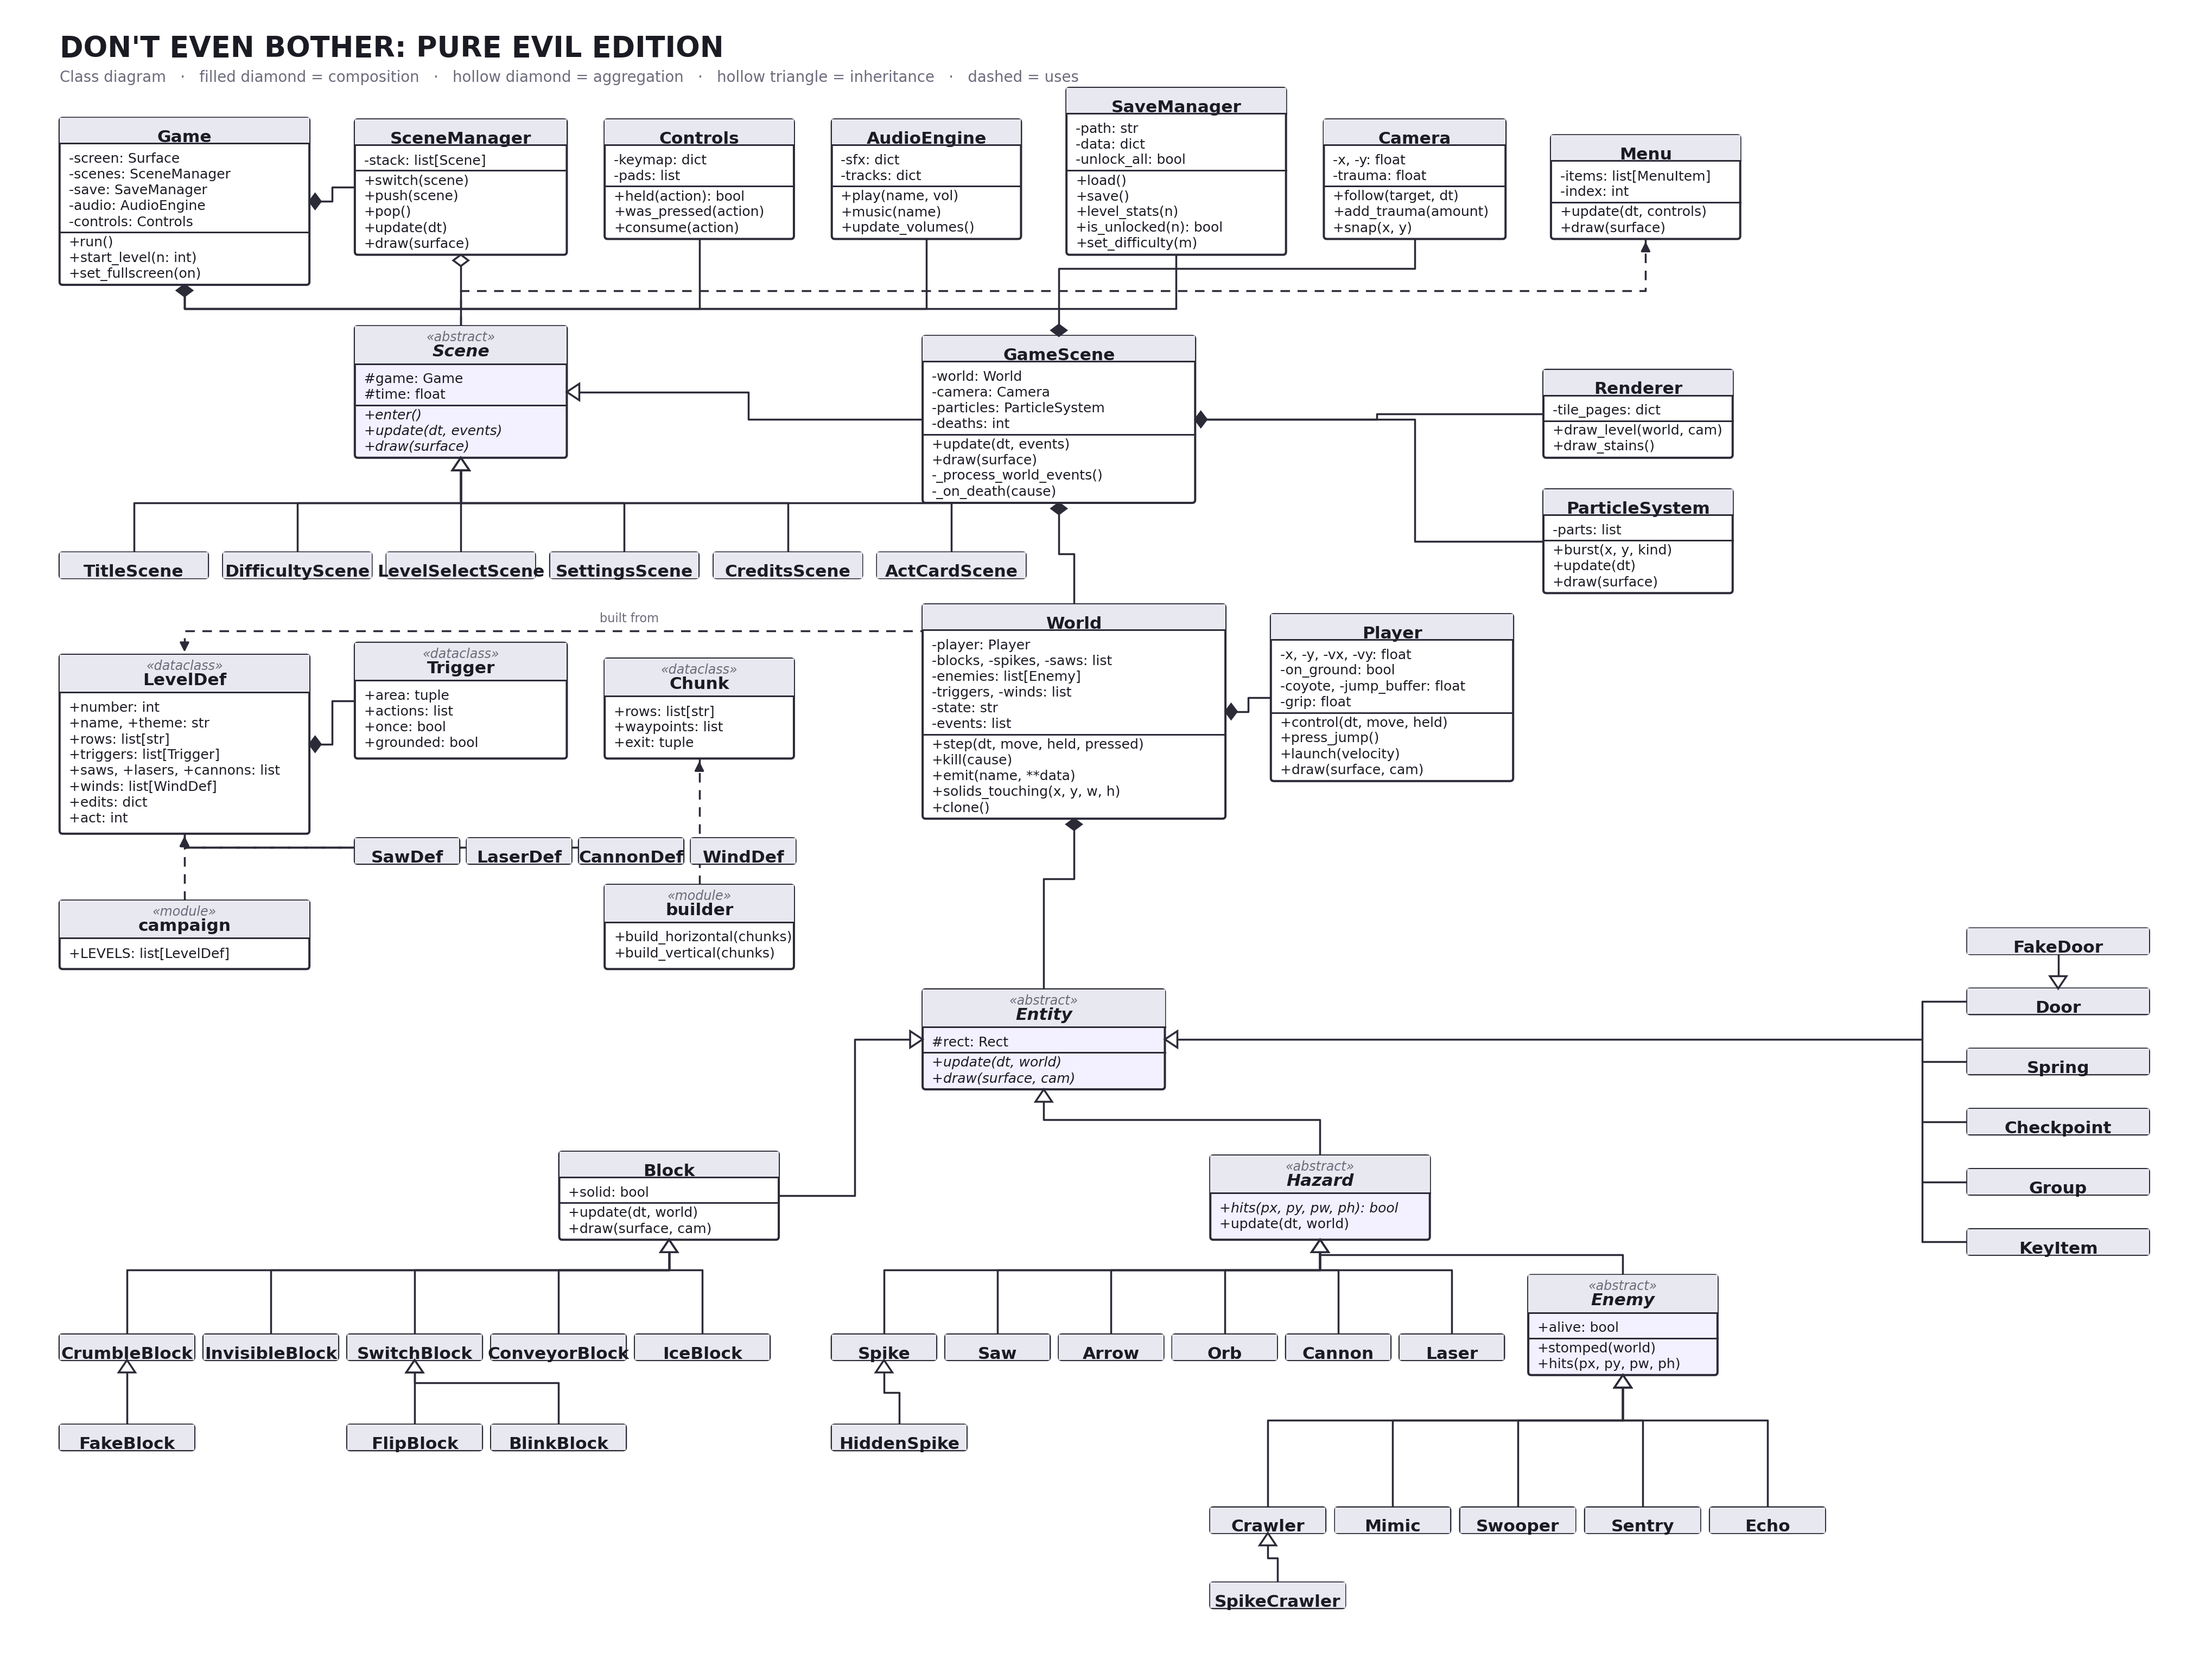
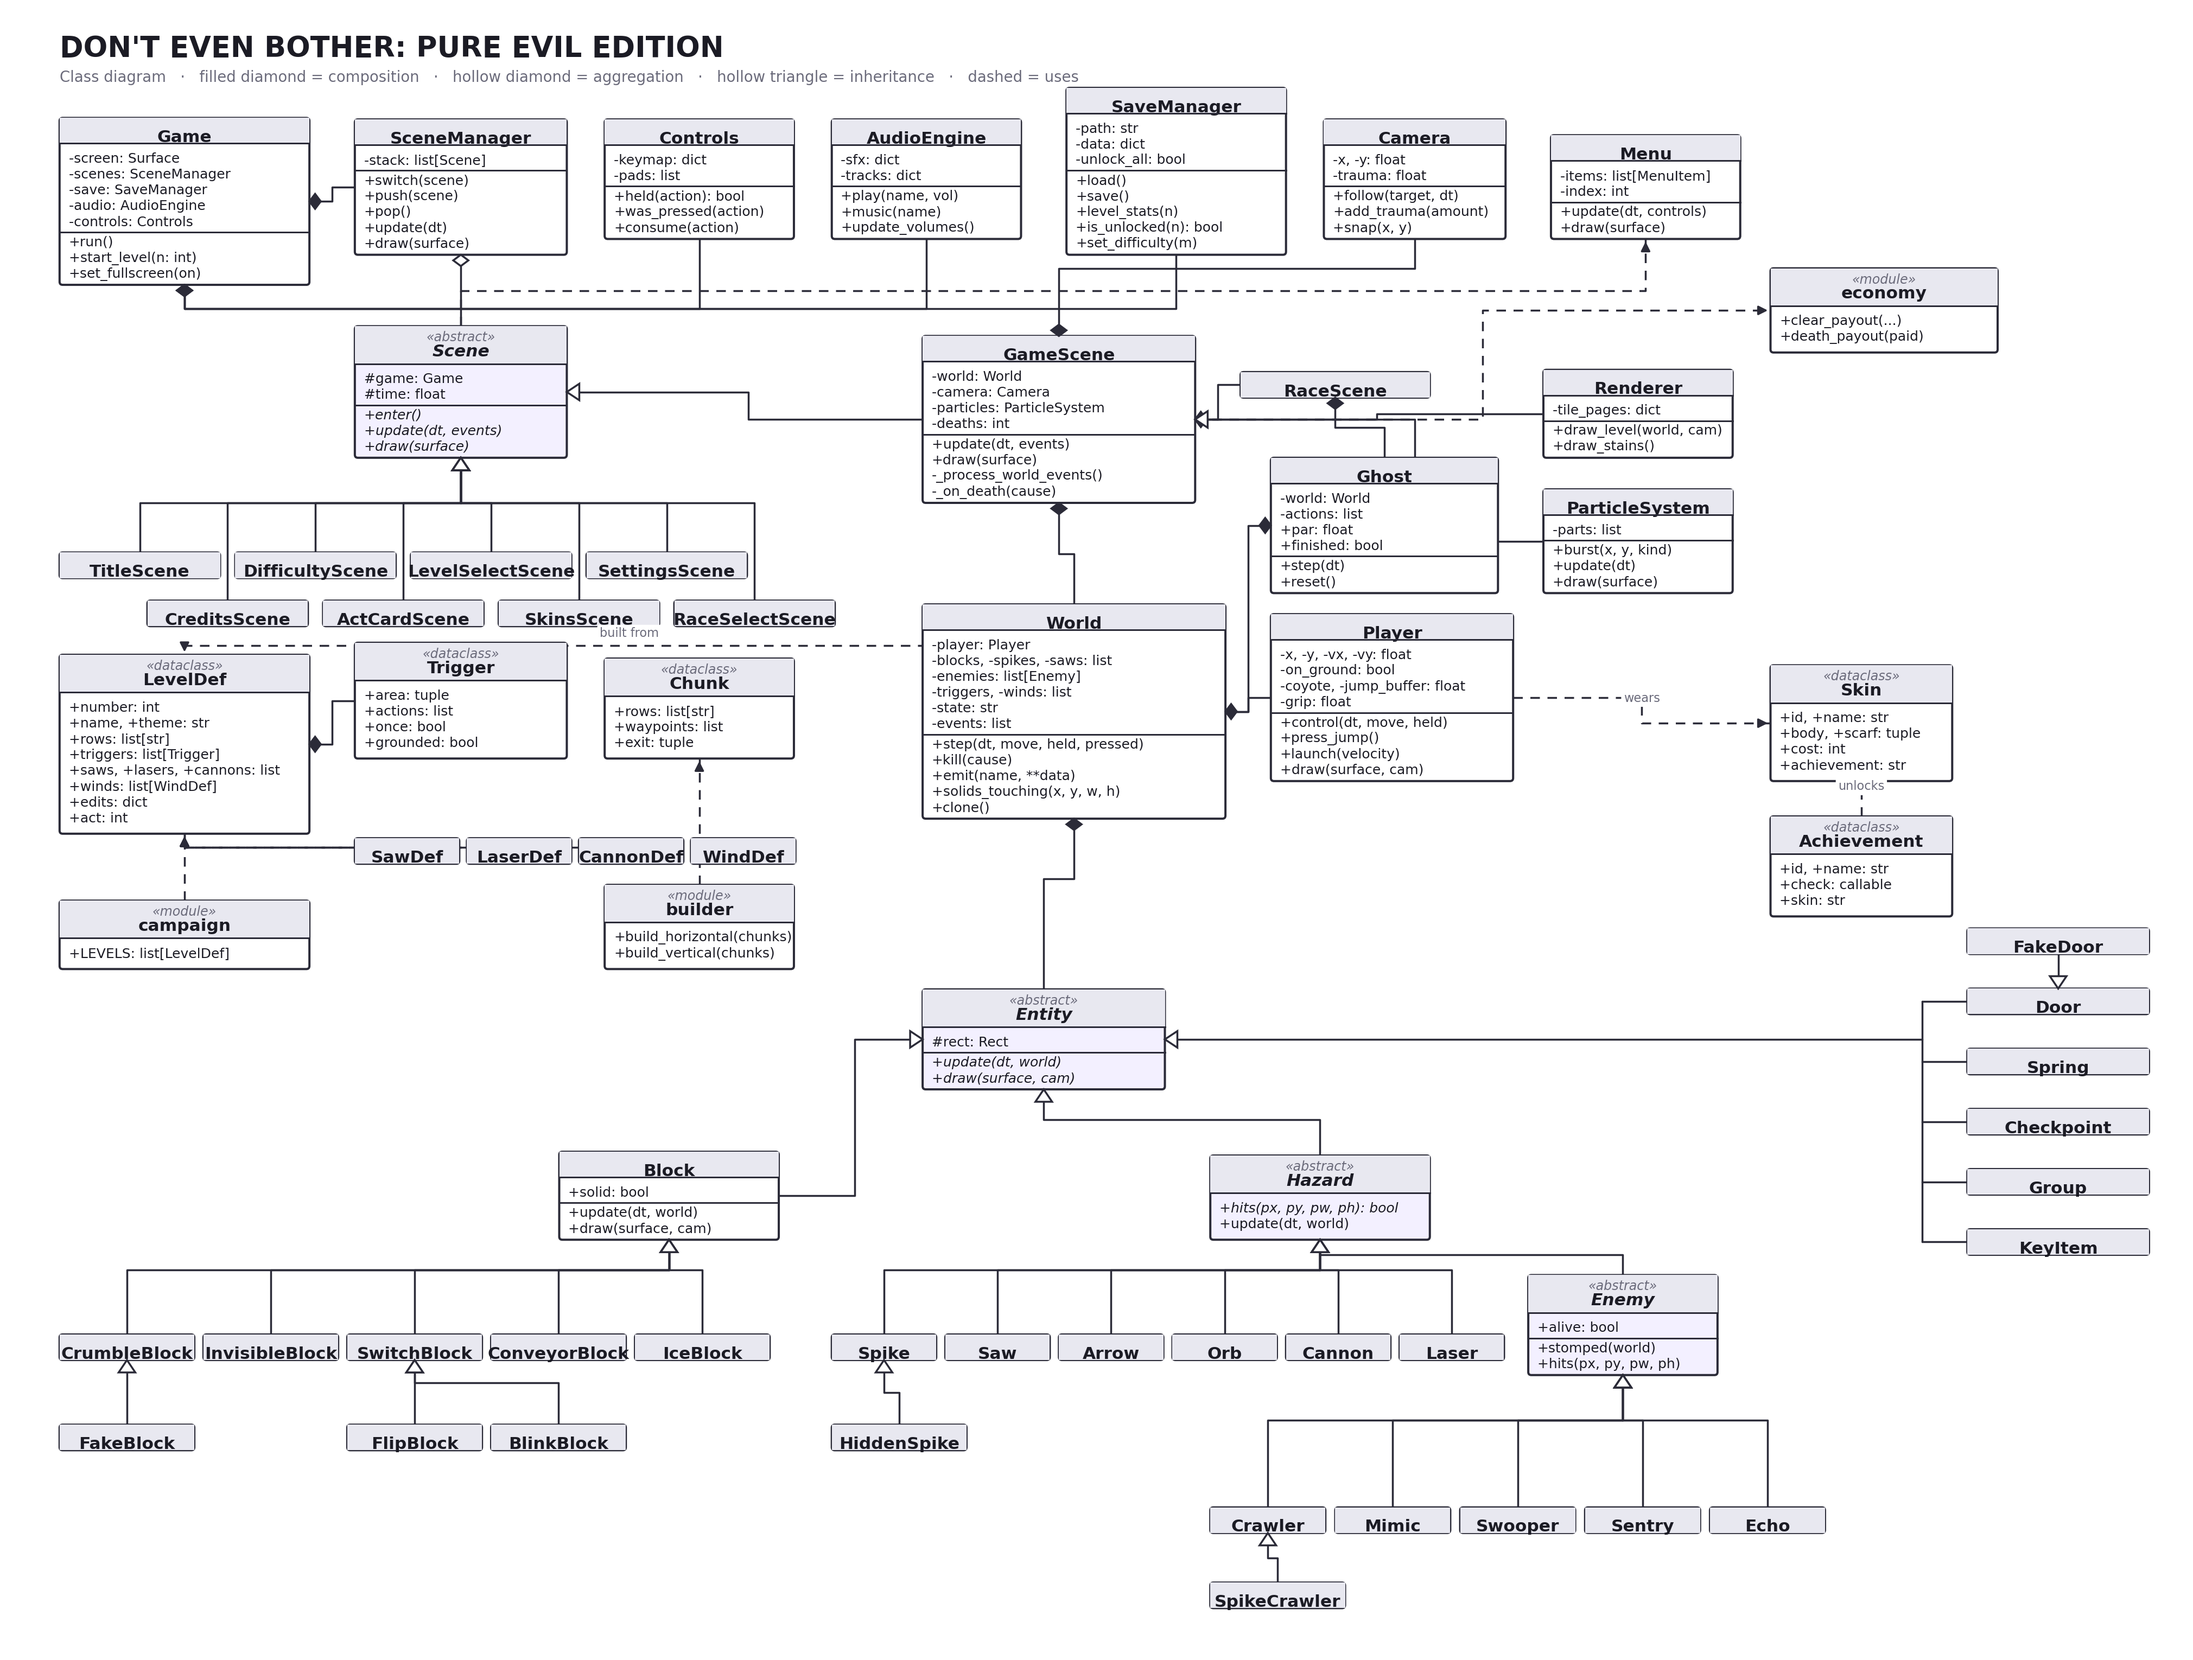
Redraw the class diagram with the cosmetics and racing classes
Adds Skin, Achievement, Ghost, RaceScene, SkinsScene, RaceSelectScene and the
economy module, and shows that a Ghost owns its own World rather than sharing
the player's.

The compact boxes now size their label to fit, and the scene subclasses sit in
two staggered rows so the longer names stop spilling over their borders.

diff --git a/Dont even bother/dev_tools/make_uml.py b/Dont even bother/dev_tools/make_uml.py
@@ -29,8 +29,8 @@ PAD = 10
 BLOCK_KIDS = ["CrumbleBlock", "InvisibleBlock", "SwitchBlock", "ConveyorBlock", "IceBlock"]
 HAZARD_KIDS = ["Spike", "Saw", "Arrow", "Orb", "Cannon", "Laser"]
 ENEMY_KIDS = ["Crawler", "Mimic", "Swooper", "Sentry", "Echo"]
-SCENE_KIDS = ["TitleScene", "DifficultyScene", "LevelSelectScene",
-              "SettingsScene", "CreditsScene", "ActCardScene"]
+SCENE_KIDS = ["TitleScene", "DifficultyScene", "LevelSelectScene", "SettingsScene",
+              "CreditsScene", "ActCardScene", "SkinsScene", "RaceSelectScene"]
 LOOSE_ENTITIES = ["Door", "Spring", "Checkpoint", "Group", "KeyItem"]
 
 boxes = {}
@@ -77,7 +77,9 @@ def draw_box(ax, b):
                 fontsize=9.5, style="italic", color=NOTE, zorder=4)
         y = b.top - 34
     style = "italic" if b.stereotype == "abstract" else "normal"
-    size = min(12.5, (b.w - 18) / (len(b.name) * 0.62))
+    # a point is 100/72 drawing units here, and bold text runs about 0.62 em a
+    # character, so this is what actually fits inside the box
+    size = min(12.5, (b.w - 22) / (len(b.name) * 0.62 * 100 / 72))
     ax.text(b.cx, y, b.name, ha="center", va="center", fontsize=size, fontweight="bold",
             color=INK, style=style, zorder=4)
     if b.compact:
@@ -210,10 +212,25 @@ def build():
     box("Scene", 430, 1560, 280, ["#game: Game", "#time: float"],
         ["+enter()*", "+update(dt, events)*", "+draw(surface)*"], stereotype="abstract")
     for i, name in enumerate(SCENE_KIDS):
-        box(name, 40 + i * 216, 1400, 196, compact=True)
+        # two staggered rows: wide enough for the long names, and the second
+        # row's connectors thread up through the gaps in the first
+        col, row = i % 4, i // 4
+        box(name, 40 + col * 232 + row * 116, 1400 - row * 64, 212, compact=True)
     box("GameScene", 1180, 1500, 360,
         ["-world: World", "-camera: Camera", "-particles: ParticleSystem", "-deaths: int"],
         ["+update(dt, events)", "+draw(surface)", "-_process_world_events()", "-_on_death(cause)"])
+    box("RaceScene", 1600, 1640, 250, compact=True)
+    box("Ghost", 1640, 1380, 300,
+        ["-world: World", "-actions: list", "+par: float", "+finished: bool"],
+        ["+step(dt)", "+reset()"])
+    box("economy", 2300, 1700, 300, [],
+        ["+clear_payout(...)", "+death_payout(paid)"], stereotype="module")
+    box("Skin", 2300, 1130, 240,
+        ["+id, +name: str", "+body, +scarf: tuple", "+cost: int", "+achievement: str"],
+        [], stereotype="dataclass")
+    box("Achievement", 2300, 950, 240,
+        ["+id, +name: str", "+check: callable", "+skin: str"],
+        [], stereotype="dataclass")
     box("Renderer", 2000, 1560, 250, ["-tile_pages: dict"],
         ["+draw_level(world, cam)", "+draw_stains()"])
     box("ParticleSystem", 2000, 1380, 250, ["-parts: list"],
@@ -297,7 +314,13 @@ def main():
     owns(ax, "GameScene", "Renderer", "right", "left", mid=1780)
     owns(ax, "GameScene", "ParticleSystem", "right", "left", mid=1830)
     owns(ax, "World", "Player", "right", "left")
-    uses(ax, "World", "LevelDef", "top", "top", mid=1330, label="built from")
+    inherit(ax, "RaceScene", "GameScene", side=("left", "right"), mid=1570)
+    owns(ax, "RaceScene", "Ghost", "bottom", "top")
+    owns(ax, "Ghost", "World", "left", "right", mid=1610)
+    uses(ax, "GameScene", "economy", "right", "left", mid=1920)
+    uses(ax, "Player", "Skin", "right", "left", label="wears")
+    uses(ax, "Achievement", "Skin", "top", "bottom", label="unlocks")
+    uses(ax, "World", "LevelDef", "top", "top", mid=1310, label="built from")
     owns(ax, "LevelDef", "Trigger", "right", "left")
     uses(ax, "builder", "Chunk", "top", "bottom")
     uses(ax, "campaign", "LevelDef", "top", "bottom")
